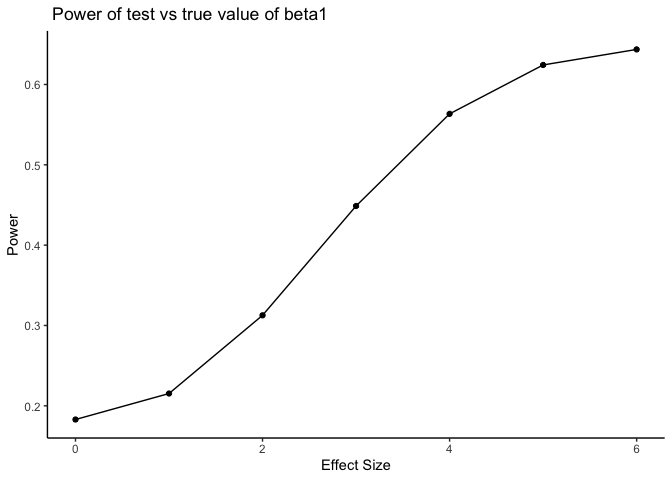
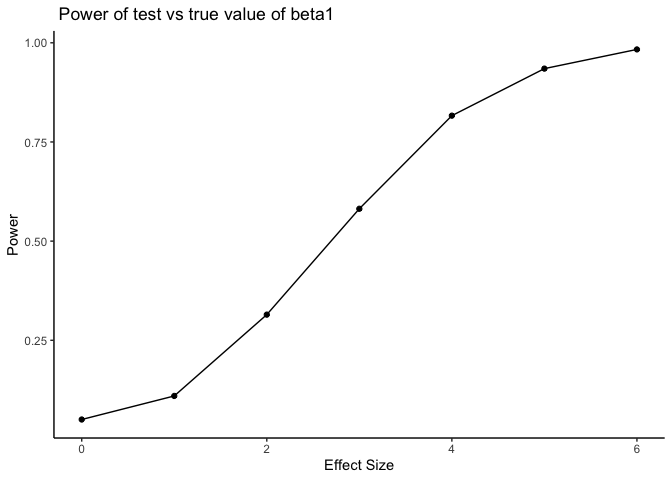
sorry final commit: grade this version

diff --git a/p8105_hw5_1_kzw2102.md b/p8105_hw5_1_kzw2102.md
@@ -324,6 +324,8 @@ observations than the experiment arms during this 8 week study period.
 ### Problem 3:
 
 ``` r
+set.seed(1)
+
 sim_regression = function(n=30, beta0 = 2, beta1=0) {
   
   sim_data = tibble(
@@ -333,7 +335,8 @@ sim_regression = function(n=30, beta0 = 2, beta1=0) {
   
   ls_fit = lm(y ~ x, data = sim_data) %>% 
     broom::tidy() %>% 
-    select(term, estimate, p.value)
+    select(term, estimate, p.value) %>% 
+    filter(term=="x")
 
 }
 
@@ -355,35 +358,35 @@ sim_results =
 sim_results
 ```
 
-    ## # A tibble: 140,000 x 4
-    ##    beta1 term        estimate p.value
-    ##    <int> <chr>          <dbl>   <dbl>
-    ##  1     0 (Intercept)    1.86   0.139 
-    ##  2     0 x              0.792  0.624 
-    ##  3     0 (Intercept)    1.68   0.215 
-    ##  4     0 x              3.68   0.0182
-    ##  5     0 (Intercept)    2.23   0.144 
-    ##  6     0 x             -1.47   0.385 
-    ##  7     0 (Intercept)    1.02   0.329 
-    ##  8     0 x             -0.610  0.539 
-    ##  9     0 (Intercept)    3.54   0.0447
-    ## 10     0 x             -0.161  0.943 
-    ## # … with 139,990 more rows
+    ## # A tibble: 70,000 x 4
+    ##    beta1 term  estimate p.value
+    ##    <int> <chr>    <dbl>   <dbl>
+    ##  1     0 x        0.864   0.578
+    ##  2     0 x        1.88    0.366
+    ##  3     0 x       -0.404   0.712
+    ##  4     0 x        1.25    0.382
+    ##  5     0 x       -1.00    0.508
+    ##  6     0 x        1.47    0.147
+    ##  7     0 x       -0.900   0.526
+    ##  8     0 x        1.92    0.207
+    ##  9     0 x       -2.12    0.218
+    ## 10     0 x       -0.663   0.622
+    ## # … with 69,990 more rows
 
 ``` r
 head(sim_results) %>% knitr::kable()
 ```
 
-| beta1 | term        |    estimate |   p.value |
-| ----: | :---------- | ----------: | --------: |
-|     0 | (Intercept) |   1.8623179 | 0.1388877 |
-|     0 | x           |   0.7923513 | 0.6236058 |
-|     0 | (Intercept) |   1.6800233 | 0.2152550 |
-|     0 | x           |   3.6775701 | 0.0181979 |
-|     0 | (Intercept) |   2.2304150 | 0.1441838 |
-|     0 | x           | \-1.4737827 | 0.3849481 |
+| beta1 | term |    estimate |   p.value |
+| ----: | :--- | ----------: | --------: |
+|     0 | x    |   0.8640410 | 0.5783868 |
+|     0 | x    |   1.8751366 | 0.3658511 |
+|     0 | x    | \-0.4040718 | 0.7120400 |
+|     0 | x    |   1.2514992 | 0.3823536 |
+|     0 | x    | \-1.0048178 | 0.5079890 |
+|     0 | x    |   1.4737176 | 0.1466357 |
 
-Here we can see the first few lines of the total 140000 rows in our
+Here we can see the first few lines of the total 70000 rows in our
 dataset. We will be using this simulated dataset and plot the
 relationship between power and effect size and see if there is a
 difference betweeen average betas among the whole sample vs those with
@@ -449,4 +452,6 @@ ggplot(data=combined_df, aes(x=beta1, y=beta1_mean, color=beta1_mean)) +
 Here we can see that sample average for beta1 across tests in which the
 null is rejected (here we see it is in the color red ) is much lower
 than the average for beta1 across all the tests. This would make sense
-since the more extreme the betas are, the smaller the would be.
+since the more extreme the betas are, the smaller the would be. We see
+that the graphs converge later because the larger the effect size, the
+larger the power is.
